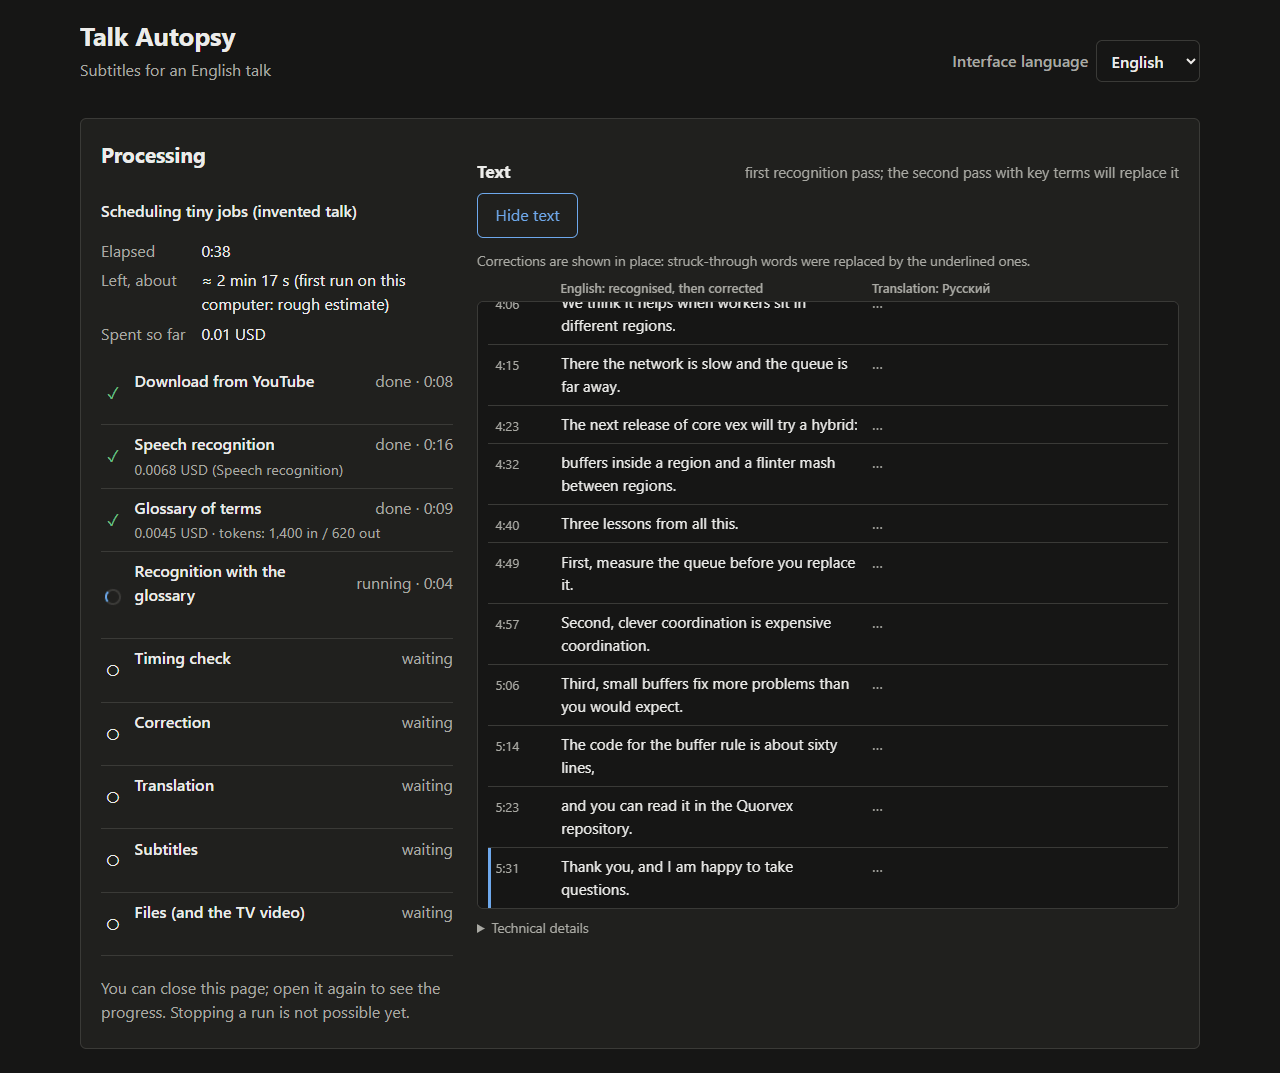
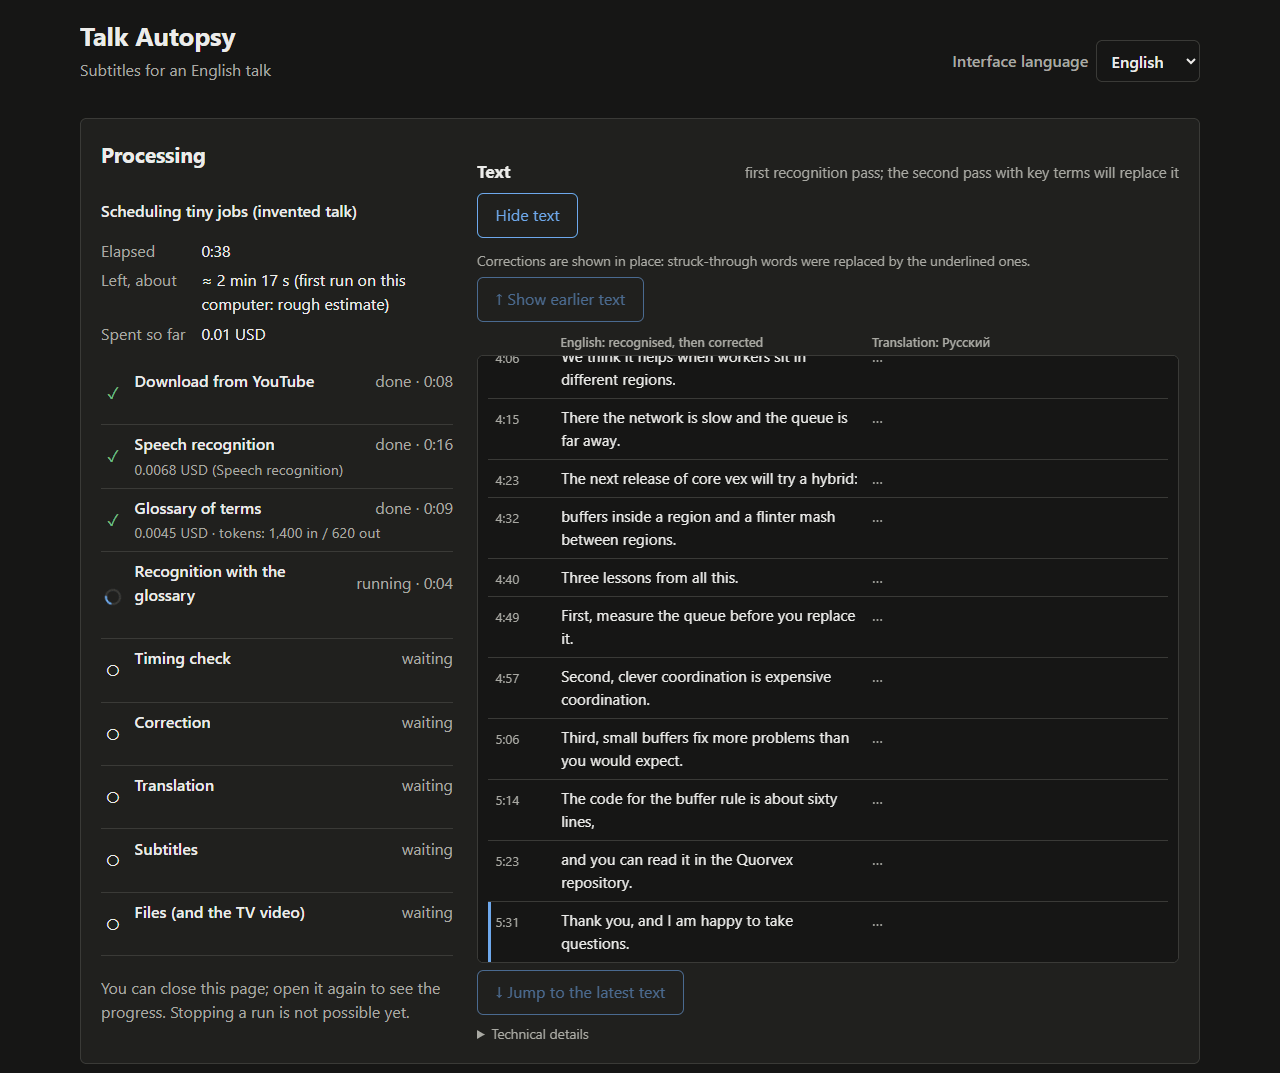
Web: earlier text shows its start; one style for text buttons
"Show earlier text" loaded the earlier part but kept the reader's place,
so nothing seemed to happen (the owner, during the outputs step). It now
shows the start of the part it loaded. Both text buttons are outlined
like "Hide text", at the grid's left edge, "Show earlier text" above the
column headings and "Jump to the latest text" below the rows; they stay
in place and are disabled when there is nothing to do. Filled blue stays
for primary actions. Checked in Edge on the 320-segment replay; the two
running-screen README pictures regenerated.

diff --git a/talk_autopsy/web/static/transcript.js b/talk_autopsy/web/static/transcript.js
@@ -25,6 +25,7 @@ let timer = null;
 let inFlight = false;
 let again = false;
 let shown = false; // the text panel is open
+let earlierFrom = null; // "show earlier text" asked for the window starting here: show its start
 
 const node = (tag, className, text) => {
   const el = document.createElement(tag);
@@ -52,8 +53,8 @@ export function reset(elements, id, targetName) {
   els.techList.replaceChildren();
   els.tech.hidden = true;
   showWarning("");
-  els.jump.hidden = true;
-  els.earlier.hidden = true;
+  earlierFrom = null;
+  navigation();
   refresh();
 }
 
@@ -204,9 +205,11 @@ function render(data) {
   const anchor = follower.following ? null : anchorOf(boxRect(box), [...box.children].map(rowRect));
   box.replaceChildren(...data.rows.map(rowOf));
   showSummary(data.summary);
-  els.earlier.hidden = !data.more_before;
   windowStart = data.start;
-  if (follower.following) {
+  if (earlierFrom !== null && !follower.following && data.start <= earlierFrom) {
+    box.scrollTop = 0; // the earlier part just loaded: show its start, not the old place
+    earlierFrom = null;
+  } else if (follower.following) {
     const newest = box.querySelector('[data-newest="true"]') || box.lastElementChild;
     if (newest) box.scrollTop = scrollToShow(boxRect(box), rowRect(newest));
   } else if (anchor) {
@@ -214,15 +217,20 @@ function render(data) {
     if (same) box.scrollTop = scrollToKeep(boxRect(box), rowRect(same), anchor.offset);
   }
   follower.placed(box.scrollTop);
-  els.jump.hidden = follower.following;
+  navigation();
+}
+
+// Both buttons stay in place: "show earlier text" is off when nothing is earlier, "jump to the
+// latest text" while the newest text is already followed (visible).
+function navigation() {
+  els.earlier.disabled = !last || !last.more_before;
+  els.jump.disabled = follower.following;
 }
 
 // Only the reader's own scrolling stops or resumes the following (follow.js). Reading earlier text
 // and reaching the end of the rows shown loads the next ones (no "show later text" button).
 function onScroll() {
-  if (follower.scrolled(boxRect(els.rows), Date.now(), !last || last.more_after)) {
-    els.jump.hidden = follower.following;
-  }
+  if (follower.scrolled(boxRect(els.rows), Date.now(), !last || last.more_after)) navigation();
   const loading = !last || windowStart !== last.start; // a window is on its way
   if (!loading && needsLater(boxRect(els.rows), follower.following, last.more_after)) {
     windowStart = last.start + STEP;
@@ -253,7 +261,7 @@ function setShown(value) {
   } else {
     els.rows.replaceChildren(); // closed: no rows kept or updated
     last = null;
-    els.jump.hidden = els.earlier.hidden = true;
+    navigation();
   }
   if (jobId) refresh();
 }
@@ -277,13 +285,16 @@ export function wire(elements) {
   }
   els.jump.addEventListener("click", () => {
     follower.jump();
-    els.jump.hidden = true;
+    earlierFrom = null;
+    els.rows.focus({ preventScroll: true }); // before the button is disabled, so focus is not lost
+    navigation();
     refresh();
-    els.rows.focus({ preventScroll: true });
   });
   els.earlier.addEventListener("click", () => {
     follower.stop();
     windowStart = Math.max(0, (last?.start || 0) - STEP);
+    earlierFrom = windowStart;
+    navigation();
     refresh();
   });
 }

diff --git a/talk_autopsy/web/static/index.html b/talk_autopsy/web/static/index.html
@@ -132,12 +132,12 @@
               aria-controls="live-panel" data-i18n="live_show"></button>
       <div id="live-panel" class="live-panel" hidden>
         <p class="muted legend" data-i18n="live_legend"></p>
+        <button type="button" id="live-earlier" class="secondary text-nav" data-i18n="live_earlier" disabled></button>
         <div class="cols" aria-hidden="true">
           <span></span><span data-i18n="col_english"></span><span id="col-target"></span>
         </div>
-        <button type="button" id="live-earlier" class="link" data-i18n="live_earlier" hidden></button>
         <div id="live-rows" class="rows" role="list" tabindex="0" aria-labelledby="live-heading"></div>
-        <button type="button" id="live-jump" class="jump" data-i18n="live_jump" hidden></button>
+        <button type="button" id="live-jump" class="secondary text-nav" data-i18n="live_jump" disabled></button>
       </div>
       <ul id="live-notices" class="notices" aria-live="off"></ul>
       <details id="live-tech" class="tech" hidden>

diff --git a/talk_autopsy/web/static/app.css b/talk_autopsy/web/static/app.css
@@ -190,13 +190,9 @@ body:not([data-live-text="shown"]) .live {
 .row .pending { color: var(--muted); letter-spacing: 0.15em; }
 .row .flag { display: block; color: var(--warn); font-size: 0.85rem; }
 .row .flag::before { content: "⚠ "; }
-button.link {
-  border: none; background: transparent; color: var(--accent); padding: 0.35rem 0; text-decoration: underline;
-}
-button.jump {
-  display: block; margin: 0.5rem 0 0 auto; background: var(--accent); color: var(--accent-text);
-  font-weight: 600; padding: 0.4rem 0.9rem;
-}
+/* The text's two navigation buttons: outlined like "Hide text", at the grid's left edge, one
+   above it and one below; filled blue is kept for primary actions (owner, 2026-11-13). */
+button.text-nav { display: block; margin: 0.4rem 0; }
 .notices { list-style: none; padding: 0; margin: 0.5rem 0 0; font-size: 0.9rem; color: var(--muted); }
 .notices li { overflow-wrap: anywhere; }
 /* The one real warning: part of the video left as it was. Yellow is kept for this. */

diff --git a/docs/web.md b/docs/web.md
@@ -129,8 +129,14 @@ cost. Right: the text, in two aligned columns.
 - **Following.** The page fetches a window of 120 segments around the newest
   change (at most every 0.4 s) and scrolls to it. When the reader scrolls up
   (wheel, touch, keys or pointer on the text), it stops moving the text and
-  shows "Jump to the latest text", the one way back to the newest text.
-  "Show earlier text" moves the window 100 segments back; reading on and
+  enables "Jump to the latest text", the one way back to the newest text.
+  "Show earlier text" moves the window 100 segments back and shows the start
+  of the part it loaded (before, the view stayed where it was, so nothing
+  seemed to happen; bug, 2026-11-13). The two are outlined buttons like
+  "Hide text", at the grid's left edge, "↑ Show earlier text" above it and
+  "↓ Jump to the latest text" below; each stays in place and is disabled when
+  it has nothing to do (nothing earlier; the newest text already followed);
+  filled blue is kept for primary actions. Reading on and
   reaching the end of the rows shown loads the next 100 by itself, up to the
   newest text, where following resumes (owner, 2026-11-13: a "Show later
   text" button did in practice what "Jump to the latest text" does, and was

diff --git a/CHANGELOG.md b/CHANGELOG.md
@@ -58,7 +58,10 @@ re-runs).
   choice.
 - One way to the newest text on the waiting screen: "Jump to the latest text"
   stays, "Show later text" is gone; reading earlier text and reaching the
-  end of the rows loads the next ones by itself.
+  end of the rows loads the next ones by itself. "Show earlier text" now
+  shows the start of the part it loaded; both buttons are outlined, at the
+  text's left edge (one above, one below), and disabled when there is
+  nothing to do.
 - The page's console window shows only the address, one line per run start
   and finish (ok, or with problems: see the log) and real errors; warnings
   and tracebacks go to the log file only.
